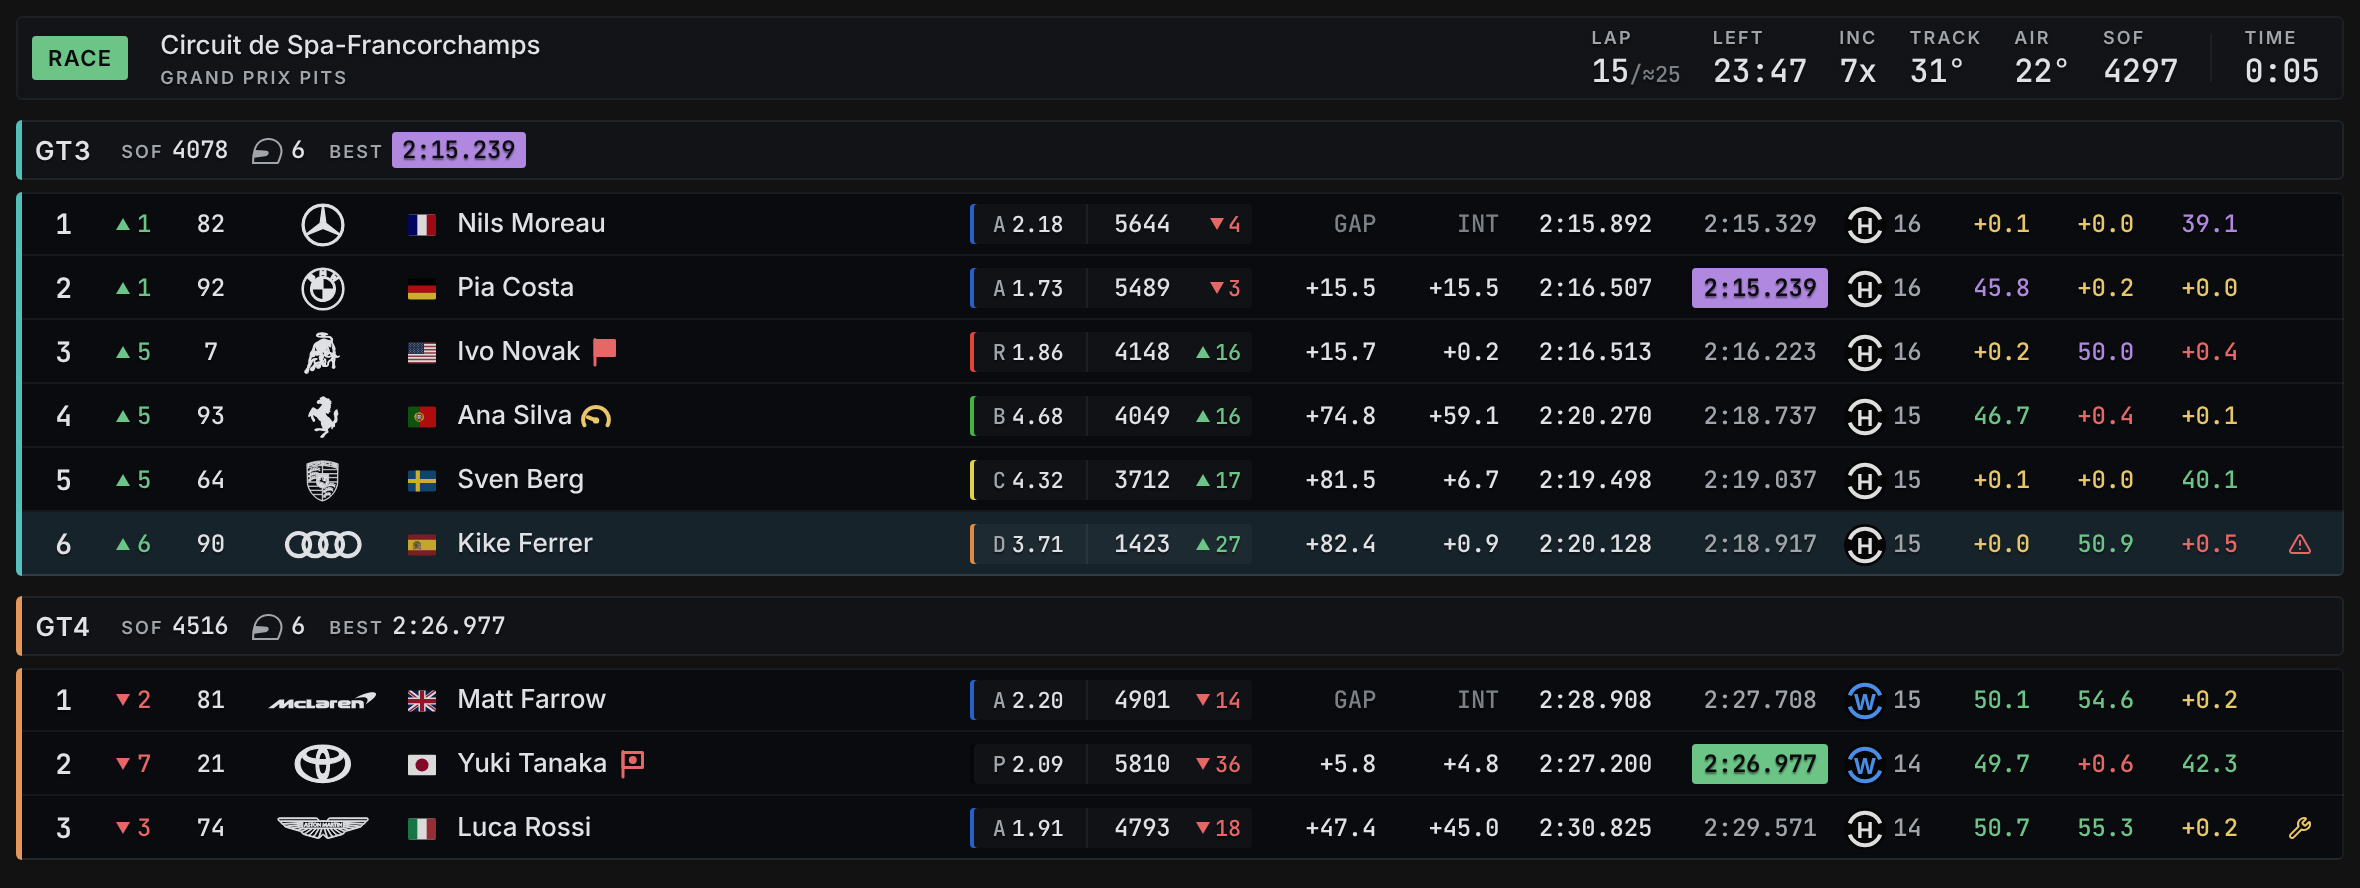
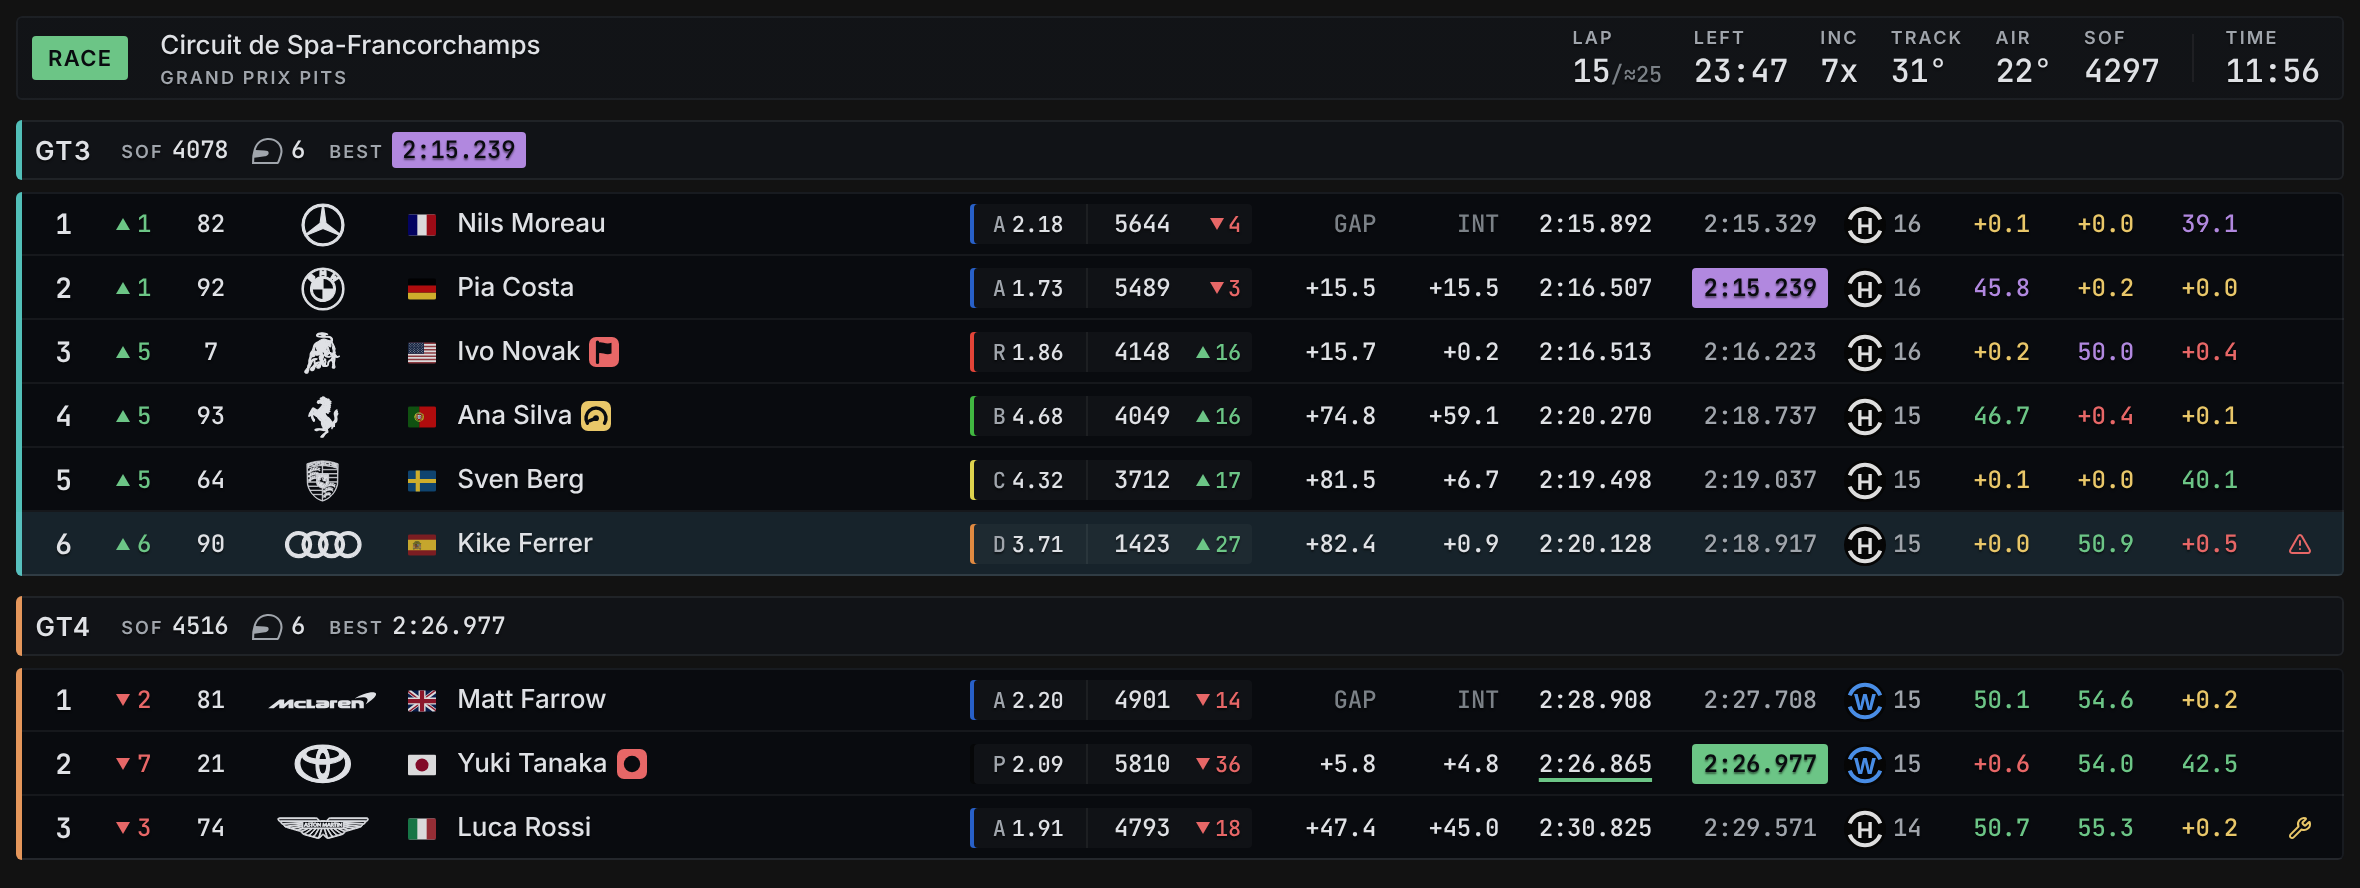
chore(release): v1.29.1 — clearer penalty and damage marks (#103)
* feat(standings): race control's marks as broadcast chips

The black-flag, meatball, slow-down and DQ marks after a driver's name
are now filled chips in their status ink with the glyph knocked out in
--color-on-accent, the way a broadcast tags a penalty: a flag, a disc,
a gauge reading low, and DQ on a wider chip. At 16 px the 1.5-unit
outlines were the lightest ink on the row; a chip is the heaviest,
which suits the one mark that asks the driver to act.

The meatball loses its flag and pole for a plain disc: a flag with a
disc in it read as a "P" at row size, a parking sign on a red chip.

Picked by the owner from three versions drawn in the live table
(chips, PEN/DMG/SLOW tags, heavier outline glyphs). design.md rule 19
is rewritten with a dated history entry; both Standings site captures
are re-shot and their alt text updated (English and Spanish).

Claude-Session: https://claude.ai/code/session_01DoDVYsJfDYeNd4sLKroiGg

* chore(release): v1.29.1

`node scripts/release.mjs bump patch` bumps the five version files:
package.json, package-lock.json, tauri.conf.json, Cargo.toml and
Cargo.lock. It also rolls [Unreleased] into a dated 1.29.1 section and
refreshes the compare links. The site's softwareVersion (English and
Spanish) is updated to match; the "New in 1.29" pill and the v1.29
chip stay, as in earlier patch releases.

This is a patch release with one change: race control's marks on
Standings (black flag, meatball, slow down, DQ) are drawn as filled
[…]

diff --git a/src/components/standings/cells.tsx b/src/components/standings/cells.tsx
@@ -109,11 +109,11 @@ export function RadioMark({ size }: { size: number }) {
 
 /**
  * Race control's flags on a car, after the driver's name (§ Dense tabular
- * overlays, rule 19), most severe first: a solid flag for a black flag, a flag
- * with a disc in it for the meatball, a gauge reading low for the slow-down,
+ * overlays, rule 19), most severe first. Each is a chip filled with its status
+ * ink from `lib/carFlags`, the way a broadcast tags a penalty: a flag for a
+ * black flag, a disc for the meatball, a gauge reading low for the slow-down,
  * and `DQ` — the one timing screens have always lettered — for a
- * disqualification. Each in its status ink from `lib/carFlags`, still, with
- * what it means in the tooltip.
+ * disqualification. Still, with what it means in the tooltip.
  */
 export function CarFlagMarks({
   flags,
@@ -142,49 +142,59 @@ export function CarFlagMarks({
   );
 }
 
-/** One race-control mark, drawn on a 16-unit grid in `currentColor`. */
+/** The ink knocked out of a mark's chip — the one allowed on a status fill. */
+const ON_CHIP = "var(--color-on-accent)";
+
+/**
+ * One race-control mark: a rounded chip in `currentColor` with its glyph cut
+ * out of it in {@link ON_CHIP}, on a 16-unit grid (`DQ` takes a wider chip).
+ * A filled chip is caught at a glance where a 1.5-unit outline was not.
+ */
 function CarFlagGlyph({ flag, size }: { flag: CarFlag; size: number }) {
   if (flag === "disqualify") {
     return (
-      <span aria-hidden className="text-cell font-bold leading-none">
-        DQ
-      </span>
+      <svg width={(size * 22) / 16} height={size} viewBox="0 0 22 16" aria-hidden>
+        <rect x="0.5" y="0.5" width="21" height="15" rx="3.5" fill="currentColor" />
+        <text
+          x="11"
+          y="8.6"
+          textAnchor="middle"
+          dominantBaseline="central"
+          fill={ON_CHIP}
+          fontFamily="var(--font-timing)"
+          fontSize="10"
+          fontWeight="700"
+        >
+          DQ
+        </text>
+      </svg>
     );
   }
   return (
-    <svg
-      width={size}
-      height={size}
-      viewBox="0 0 16 16"
-      fill="none"
-      stroke="currentColor"
-      strokeWidth={1.5}
-      strokeLinecap="round"
-      strokeLinejoin="round"
-      aria-hidden
-    >
-      {flag === "furled" ? (
-        // A gauge with its needle down at the slow end, a step heavier than
-        // the flags: its open arc is thinner ink than a flag's body.
-        <g strokeWidth={2}>
-          <path d="M2.2 12.6A6.4 6.4 0 1 1 13.8 12.6" />
-          <path d="M8 10.2 3.9 8.6" />
-          <circle cx="8" cy="10.2" r="1.6" fill="currentColor" stroke="none" />
-        </g>
-      ) : (
-        // A flag on its pole: solid for the black flag, an outline with the
-        // meatball's disc in it for the repair flag.
-        <>
-          <path d="M3.5 14.5V1.75" />
-          <path
-            d="M3.5 2.25h9.75v7.5H3.5z"
-            fill={flag === "black" ? "currentColor" : "none"}
-          />
-          {flag === "repair" && (
-            <circle cx="8.4" cy="6" r="2" fill="currentColor" stroke="none" />
-          )}
-        </>
-      )}
+    <svg width={size} height={size} viewBox="0 0 16 16" aria-hidden>
+      <rect x="0.5" y="0.5" width="15" height="15" rx="3.5" fill="currentColor" />
+      <g fill={ON_CHIP} stroke={ON_CHIP} strokeLinecap="round">
+        {flag === "black" && (
+          // A flag flying from its pole.
+          <>
+            <path d="M4.75 3v10.25" fill="none" strokeWidth={1.6} />
+            <path d="M4.75 3.4c2-1 3.9 1 7 0v5.4c-3.1 1-5-1-7 0z" stroke="none" />
+          </>
+        )}
+        {flag === "repair" && (
+          // The meatball's disc alone. A flag with a disc in it, on its pole,
+          // read as a `P` at row size — a parking sign on a red chip.
+          <circle cx="8" cy="8" r="4.1" stroke="none" />
+        )}
+        {flag === "furled" && (
+          // A gauge with its needle down at the slow end.
+          <>
+            <path d="M3.7 11.6A5 5 0 1 1 12.3 11.6" fill="none" strokeWidth={1.75} />
+            <path d="M8 9.1 4.7 10.4" fill="none" strokeWidth={1.75} />
+            <circle cx="8" cy="9.1" r="1.45" stroke="none" />
+          </>
+        )}
+      </g>
     </svg>
   );
 }

diff --git a/site/index.html b/site/index.html
@@ -70,7 +70,7 @@
         "applicationCategory": "UtilitiesApplication",
         "applicationSubCategory": "Sim racing overlay",
         "operatingSystem": "Windows",
-        "softwareVersion": "1.29.0",
+        "softwareVersion": "1.29.1",
         "isAccessibleForFree": true,
         "license": "https://opensource.org/licenses/MIT",
         "offers": {
@@ -355,10 +355,11 @@
                        wets, shown by a blue W on a dark tyre, the rest on hards, a white H. The car brands are drawn as their own
                        marks in light grey, McLaren's and Aston Martin's lettering included. Each class leader's row reads GAP and INT
                        where it has no gap to show. Three rows carry race control's marks
-                       straight after the driver's name: a red flag — a black flag — on
-                       the third GT3 car, a yellow gauge with its needle down — told to
-                       slow down — on the fourth, and a red flag with a disc in it — the
-                       meatball — on the second GT4 car."
+                       straight after the driver's name, each a small filled chip: a red
+                       chip with a flag in it — a black flag — on the third GT3 car, a
+                       yellow chip with a gauge reading low — told to slow down — on the
+                       fourth, and a red chip with a disc in it — the meatball — on the
+                       second GT4 car."
                 />
               </figure>
             </article>

diff --git a/site/es/index.html b/site/es/index.html
@@ -62,7 +62,7 @@
         "applicationCategory": "UtilitiesApplication",
         "applicationSubCategory": "Sim racing overlay",
         "operatingSystem": "Windows",
-        "softwareVersion": "1.29.0",
+        "softwareVersion": "1.29.1",
         "isAccessibleForFree": true,
         "license": "https://opensource.org/licenses/MIT",
         "offers": {
@@ -306,10 +306,11 @@
                        van con neumáticos de lluvia, marcados con una W azul; el resto, con duros, una H blanca. La fila
                        de cada líder de clase muestra GAP e INT donde no hay gap que
                        mostrar. Tres filas llevan las marcas de dirección de carrera
-                       justo después del nombre del piloto: una bandera roja — bandera
-                       negra — en el tercer GT3, un indicador amarillo con la aguja
-                       abajo — slowdown — en el cuarto, y una bandera roja con un disco
-                       dentro — la meatball — en el segundo GT4."
+                       justo después del nombre del piloto, cada una en una pequeña
+                       pastilla de color: una roja con una bandera — bandera negra — en
+                       el tercer GT3, una amarilla con un indicador de aguja abajo —
+                       slowdown — en el cuarto, y una roja con un disco — la meatball —
+                       en el segundo GT4."
                 />
               </figure>
             </article>

diff --git a/design.md b/design.md
@@ -1048,21 +1048,32 @@ the fact that a header band and a row cost the same height.
     black flag (a penalty to serve in the pits), the meatball (damage the
     car must pit to repair) and the furled black (a warning: slow down, or
     be penalised). Standings prints each as a mark straight after the
-    driver's name (`CarFlagMarks`, [`lib/carFlags.ts`](src/lib/carFlags.ts)):
+    driver's name (`CarFlagMarks`, [`lib/carFlags.ts`](src/lib/carFlags.ts)),
+    each **a chip filled with its status ink, with the glyph cut out of it**
+    in `--color-on-accent`, the way a broadcast tags a penalty:
 
-    - a **solid flag** for the black flag;
-    - **a flag with a disc in it** for the meatball — the marshal's flag
-      with its disc kept and its orange dropped, since orange is a class
-      colour (§ Two colour systems);
+    - **a flag** for the black flag;
+    - **a disc** for the meatball — the marshal's flag reduced to the disc
+      it is named for, with its orange dropped, since orange is a class
+      colour (§ Two colour systems). A flag with a disc in it, on its
+      pole, read as a `P` at row size: a parking sign on a red chip;
     - **a gauge with its needle down** for the slow-down. It draws what
       the driver has been told to do rather than the furled flag, which
       nothing at row size can draw so that it reads as furled;
-    - **`DQ`**, lettered, for a disqualification, the one state timing
-      screens have always spelled out. It shows alone: a disqualified car
-      has no penalty left to serve and no race to repair the car for.
+    - **`DQ`**, lettered on a wider chip, for a disqualification, the one
+      state timing screens have always spelled out. It shows alone: a
+      disqualified car has no penalty left to serve and no race to repair
+      the car for.
 
     The rules, and why:
 
+    - **Filled, not outlined.** The marks shipped in 1.28 as 1.5-unit
+      outlines in the status ink. A mark that flies on a few cars for seconds
+      has to be caught in peripheral vision, and at 16 px an outline was
+      the lightest ink on the row; a filled chip is the heaviest, which is
+      the right way round for the one thing on the row that asks the
+      driver to act. The knocked-out glyph is `on-accent`, rule 1's only
+      ink on a status fill.
     - **The session header's inks** (`lib/sessionStrip`): `danger` for the
       three the car must act on — a black flag drawn in black on this paper
       is nothing — and `warning` for the slow-down, which is still a
@@ -1759,6 +1770,15 @@ names the compound rather than only dry or wet, in the broadcast's drawing of
 it: a rubber disc, a broken sidewall band and a letter, each compound in its
 own fixed colour. § Dense tabular overlays rule 15 and the tyre rows of the
 theme table were rewritten with it.
+
+**Race control's marks as chips, 2026-10-29.** At the owner's request, after
+three versions were drawn in the live table and compared (broadcast chips,
+timing-tower tags `PEN`/`DMG`/`SLOW`, and heavier outline glyphs), the
+black-flag, meatball, slow-down and `DQ` marks became filled status chips with
+their glyph knocked out, and the meatball lost its flag and pole to a plain
+disc. The tags read without learning but were the widest, and cost the one
+column allowed to truncate; the heavier outlines were still the lightest ink
+on the row. § Dense tabular overlays rule 19 was rewritten with it.
 
 ## Known follow-ups
 

diff --git a/CHANGELOG.md b/CHANGELOG.md
@@ -7,6 +7,17 @@ and this project adheres to [Semantic Versioning](https://semver.org/spec/v2.0.0
 
 ## [Unreleased]
 
+## [1.29.1] - 2026-10-29
+
+### Changed
+
+- **Clearer penalty and damage marks on Standings.** The marks after a
+  driver's name are now small filled chips, like a TV broadcast's penalty
+  tags, so they stand out at a glance: a red chip with a flag for a **black
+  flag**, a red chip with a disc for the **meatball** (damage, must pit), a
+  yellow chip with a gauge reading low for **slow down**, and a red **DQ**
+  chip for a disqualification. The meatball no longer looks like a "P".
+
 ## [1.29.0] - 2026-10-29
 
 ### Changed
@@ -834,7 +845,8 @@ and this project adheres to [Semantic Versioning](https://semver.org/spec/v2.0.0
   with a SHA-256 so the download can be verified. It is not code-signed, so
   Windows SmartScreen will warn on first run — see the README.
 
-[Unreleased]: https://github.com/panyu1512/TelemetryLab/compare/v1.29.0...HEAD
+[Unreleased]: https://github.com/panyu1512/TelemetryLab/compare/v1.29.1...HEAD
+[1.29.1]: https://github.com/panyu1512/TelemetryLab/compare/v1.29.0...v1.29.1
 [1.29.0]: https://github.com/panyu1512/TelemetryLab/compare/v1.28.0...v1.29.0
 [1.28.0]: https://github.com/panyu1512/TelemetryLab/compare/v1.27.3...v1.28.0
 [1.27.3]: https://github.com/panyu1512/TelemetryLab/compare/v1.27.2...v1.27.3
